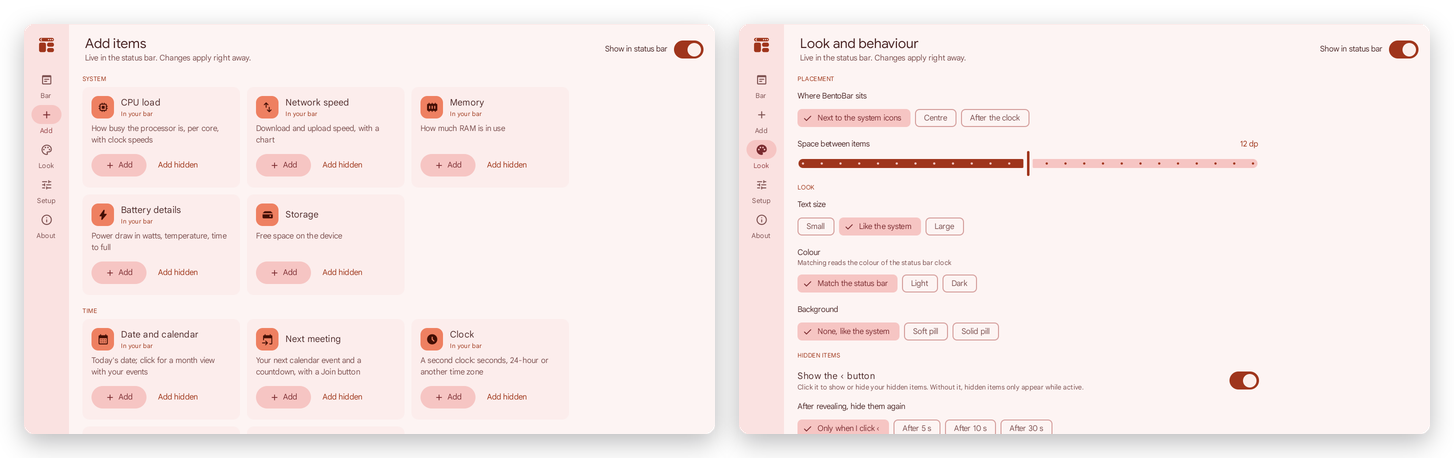
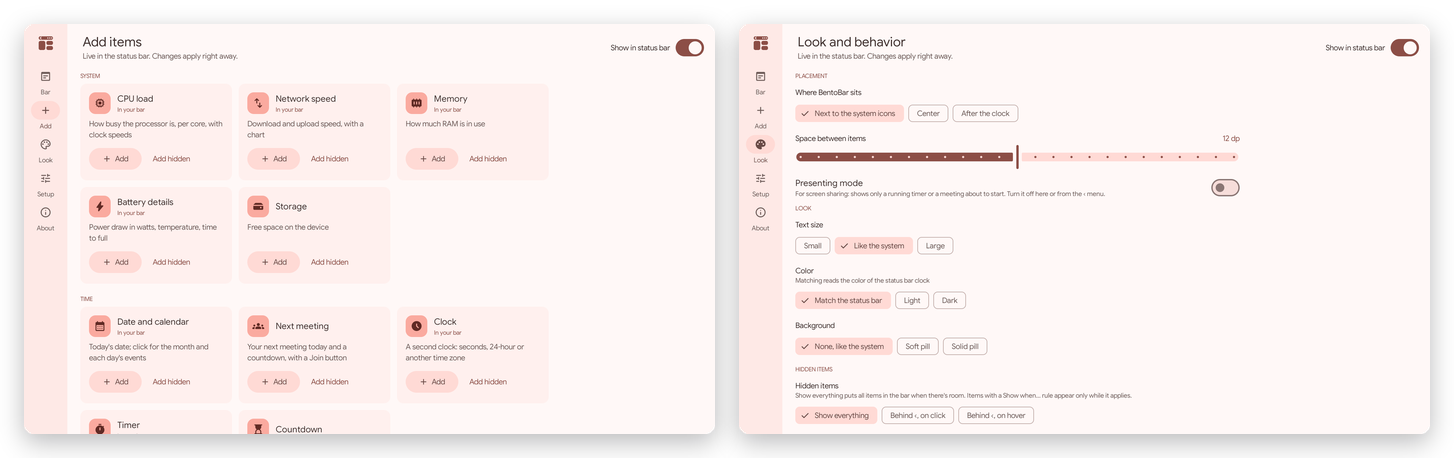
README screenshots of the current app; "Core 0" in the CPU menu; full-size window captures
- docs/images: all five screenshots retaken (on an Acer Googlebook 14, light theme, the default
  wallpaper, a demo layout). The old ones showed the 0.5 settings (up/down arrows, "Show itself
  when active", the "Show the ‹ button" switch, British spellings) and menus ("Remove from the
  bar", "Edit the bar…"). The README's intro, the bar caption and the Settings paragraph now say
  that hidden items are an option (the default shows everything that fits).
- tools/readme_images.py works from any Googlebook: captures are scaled to the HP's 1920 px
  screen, the bar height is measured, and an optional wallpaper.png goes under an opaque bar
  (the Acer's is black) in the hero image, saved with 256 colors.
- The CPU menu says "Core 0" for a core listed on its own (each one has its own clock on some
  Intel chips), not "Cores 0".
- winshot writes the PNG full size to the debug app's cache, pulled with run-as (`./bento winshot
  TITLE|app FILE`): a broadcast result over about 1 MB fails and the broadcast never finishes
  (Android then reports the app as not responding), and halving the image made captures blurry.

diff --git a/app/src/debug/java/io/github/kuscher/bentobar/util/DebugReceiver.kt b/app/src/debug/java/io/github/kuscher/bentobar/util/DebugReceiver.kt
@@ -124,21 +124,23 @@ class DebugReceiver : BroadcastReceiver() {
         svc.takeScreenshotOfWindow(w.id, java.util.concurrent.Executors.newSingleThreadExecutor(),
             object : android.accessibilityservice.AccessibilityService.TakeScreenshotCallback {
                 override fun onSuccess(r: android.accessibilityservice.AccessibilityService.ScreenshotResult) {
+                    // Full size into the app's cache, and its path as the result: a broadcast result
+                    // over about 1 MB fails (TransactionTooLarge) and the broadcast never finishes.
+                    // Pull it with `adb exec-out run-as <package> cat cache/winshot.png`.
                     val hb = r.hardwareBuffer
-                    var bmp = android.graphics.Bitmap.wrapHardwareBuffer(hb, r.colorSpace)!!.copy(android.graphics.Bitmap.Config.ARGB_8888, false)
-                    hb.close()
-                    // A broadcast result over about 1 MB fails (TransactionTooLarge), the broadcast
-                    // never finishes and Android reports BentoBar as not responding: halve big
-                    // windows (the settings window) until the PNG fits.
-                    var out = java.io.ByteArrayOutputStream()
-                    bmp.compress(android.graphics.Bitmap.CompressFormat.PNG, 100, out)
-                    while (out.size() > 600_000 && bmp.width > 200) {
-                        bmp = android.graphics.Bitmap.createScaledBitmap(bmp, bmp.width / 2, bmp.height / 2, true)
-                        out = java.io.ByteArrayOutputStream()
-                        bmp.compress(android.graphics.Bitmap.CompressFormat.PNG, 100, out)
+                    try {
+                        val bmp = android.graphics.Bitmap.wrapHardwareBuffer(hb, r.colorSpace)?.copy(android.graphics.Bitmap.Config.ARGB_8888, false)
+                        val file = java.io.File(svc.cacheDir, "winshot.png")
+                        pending.resultData = if (bmp == null) "failed: no bitmap" else {
+                            file.outputStream().use { bmp.compress(android.graphics.Bitmap.CompressFormat.PNG, 100, it) }
+                            "file:cache/winshot.png ${bmp.width}x${bmp.height}"
+                        }
+                    } catch (e: Exception) {
+                        pending.resultData = "failed: $e"
+                    } finally {
+                        hb.close()
+                        pending.finish()
                     }
-                    pending.resultData = android.util.Base64.encodeToString(out.toByteArray(), android.util.Base64.NO_WRAP)
-                    pending.finish()
                 }
                 override fun onFailure(code: Int) { pending.resultData = "failed $code"; pending.finish() }
             })

diff --git a/app/src/main/java/io/github/kuscher/bentobar/items/SystemItems.kt b/app/src/main/java/io/github/kuscher/bentobar/items/SystemItems.kt
@@ -102,7 +102,9 @@ object CpuItem : ItemType("cpu", R.string.item_cpu_title, Sym.MEMORY, R.string.i
                 CoreBars(c.perCore)
                 Spacer(Modifier.height(6.dp))
                 c.clusters.forEach { cl ->
-                    InfoRow(stringResource(R.string.cpu_cluster, cl.cores), stringResource(R.string.cpu_cluster_clock,
+                    // "Cores 0–3" for a group; a core with its own clock speed (each one, on some Intel
+                    // chips) is "Core 0".
+                    InfoRow(stringResource(if (cl.cores.all { it.isDigit() }) R.string.cpu_core_one else R.string.cpu_cluster, cl.cores), stringResource(R.string.cpu_cluster_clock,
                         String.format(Locale.ROOT, "%.2f", cl.curKhz / 1e6), String.format(Locale.ROOT, "%.2f", cl.maxKhz / 1e6)))
                 }
                 c.gpu?.let { g ->

diff --git a/tools/readme_images.py b/tools/readme_images.py
@@ -5,10 +5,12 @@
 Raw captures (in RAW, default ~/.cache/bentobar/shots), made with a demo layout so no personal data
 shows:
   bar_hero.png, bar_now.png, bar_open.png   full-width screenshots, top 41 px (./bento shot F 41)
-  win_*.png                                 BentoBar's own windows (./bento debug winshot ...), which
+  win_*.png                                 BentoBar's own windows (./bento winshot TITLE FILE), which
                                             carry their shadow margin and no mouse pointer
-  app_*.png                                 the settings window (./bento debug winshot app)
+  app_*.png                                 the settings window (./bento winshot app FILE)
   cpu_frame.txt                             "cpu menu frame: x1 y1 x2 y2" of the CPU menu window
+  wallpaper.png                             optional: the wallpaper at screen size, for the hero image
+                                            under an opaque status bar (else it's continued from the bar)
 
 Writes docs/images/hero.png, bar.png, menus.png, settings.png and settings-pages.png.
 
@@ -70,31 +72,55 @@ def wallpaper(bar, height):
     return bg.filter(ImageFilter.GaussianBlur(6))
 
 
+# Captures from any Googlebook are scaled to the HP's 1920 px wide screen (its density), so the
+# images keep one size whichever device they came from; SCALE is set from bar_hero.png in main().
+SCALE = 1.0
+
+
+def load(name):
+    im = Image.open(RAW / name).convert("RGBA")
+    if SCALE != 1.0:
+        im = im.resize((round(im.width * SCALE), round(im.height * SCALE)), Image.LANCZOS)
+    return im
+
+
 def main():
+    global SCALE
     OUT.mkdir(parents=True, exist_ok=True)
+    SCALE = 1920 / Image.open(RAW / "bar_hero.png").width
 
     # Hero: the right part of the status bar with the CPU menu open under its item.
-    x0 = 820
-    bar = Image.open(RAW / "bar_hero.png").convert("RGBA").crop((x0, 0, 1920, 41))
-    frame = [int(v) for v in (RAW / "cpu_frame.txt").read_text().split(":")[1].split()]
-    menu = Image.open(RAW / "win_cpu.png").convert("RGBA")
+    full = load("bar_hero.png")
+    bar_h = full.height
+    frame = [round(int(v) * SCALE) for v in (RAW / "cpu_frame.txt").read_text().split(":")[1].split()]
+    x0 = min(820, max(0, frame[0] - 80))
+    bar = full.crop((x0, 0, 1920, bar_h))
+    menu = load("win_cpu.png")
     h = frame[1] + menu.height + 36
-    hero = wallpaper(bar, h).convert("RGBA")
+    if (RAW / "wallpaper.png").exists():
+        # An opaque status bar (the Acer's is black) says nothing about the wallpaper under it: use
+        # the wallpaper itself (screen-sized, as the screen shows it) below the bar.
+        hero = load("wallpaper.png").crop((x0, 0, 1920, h))
+    else:
+        hero = wallpaper(bar, h).convert("RGBA")
     hero.alpha_composite(bar, (0, 0))
     hero.alpha_composite(menu, (frame[0] - x0, frame[1]))  # the window capture keeps its own shadow
-    rounded(hero, 20).save(OUT / "hero.png", optimize=True)
+    hero = rounded(hero, 20)
+    if (RAW / "wallpaper.png").exists():  # a photo compresses badly as PNG: 256 colours, dithered (~1.1 MB -> ~170 KB)
+        hero = hero.quantize(256, method=Image.Quantize.FASTOCTREE, dither=Image.Dither.FLOYDSTEINBERG)
+    hero.save(OUT / "hero.png", optimize=True)
 
     # The bar folded and with hidden items revealed.
     x0 = 560
-    rows = [Image.open(RAW / n).convert("RGBA").crop((x0, 0, 1920, 41)) for n in ("bar_now.png", "bar_open.png")]
+    rows = [load(n).crop((x0, 0, 1920, bar_h)) for n in ("bar_now.png", "bar_open.png")]
     gap = 10
-    both = Image.new("RGBA", (rows[0].width, 41 * 2 + gap), (0, 0, 0, 0))
+    both = Image.new("RGBA", (rows[0].width, bar_h * 2 + gap), (0, 0, 0, 0))
     both.alpha_composite(rounded(rows[0], 12), (0, 0))
-    both.alpha_composite(rounded(rows[1], 12), (0, 41 + gap))
+    both.alpha_composite(rounded(rows[1], 12), (0, bar_h + gap))
     both.save(OUT / "bar.png", optimize=True)
 
     # Menus side by side.
-    cards = [card(Image.open(RAW / f"win_{n}.png").convert("RGBA")) for n in ("network", "timer", "ctx", "tools", "bentobar")
+    cards = [card(load(f"win_{n}.png")) for n in ("network", "timer", "ctx", "tools", "bentobar")
              if (RAW / f"win_{n}.png").exists()]
     pad, gap = 30, 28
     W = sum(c.width for c in cards) + gap * (len(cards) - 1) + 2 * pad
@@ -109,9 +135,9 @@ def main():
 
     # Settings: the Bar page, and Add + Look side by side at half size.
     top = 44  # where the (separate) caption window sits
-    main_page = rounded(Image.open(RAW / "app_bar.png").convert("RGBA").crop((0, top, 1382, 864)), 18)
+    main_page = rounded(load("app_bar.png").crop((0, top, 1382, 864)), 18)
     shadowed(main_page, blur=20, alpha=80, pad=36).save(OUT / "settings.png", optimize=True)
-    pages = [rounded(Image.open(RAW / f"app_{n}.png").convert("RGBA").crop((0, top, 1382, 864)), 18) for n in ("add", "look")]
+    pages = [rounded(load(f"app_{n}.png").crop((0, top, 1382, 864)), 18) for n in ("add", "look")]
     half = [p.resize((p.width // 2, p.height // 2), Image.LANCZOS) for p in pages]
     combo = Image.new("RGBA", (half[0].width * 2 + 24 + 2 * 24, half[0].height + 2 * 24), (0, 0, 0, 0))
     combo.alpha_composite(shadowed(half[0], blur=12, alpha=70, pad=24), (0, 0))

diff --git a/README.md b/README.md
@@ -34,13 +34,13 @@ Formerly DiscoBar (<a href="#coming-from-discobar">moving over</a>).</sub></p>
 ## What it does
 
 BentoBar puts **your own items** into the empty part of the status bar, right next to the
-system's icons, in the same font and colour. Items you don't need all the time go **behind the ‹
-button**; one click reveals them, another folds them away. Like a bento box: everything in its
-compartment, and the whole thing neat.
+system's icons, in the same font and colour. Items you don't need all the time can show only while
+they have something to say, or wait **behind the ‹ button**: one click reveals them, another folds
+them away. Like a bento box: everything in its compartment, and the whole thing neat.
 
 <p align="center">
   <img src="docs/images/bar.png" width="880" alt="The status bar with BentoBar folded, then with its hidden items revealed">
-  <br><sub>Folded (top) and revealed (bottom): a world clock, battery and memory slide in next to the running timer.</sub>
+  <br><sub>With hidden items behind ‹ (a Look setting; the default shows everything that fits), folded (top) and revealed (bottom): a world clock, battery and memory slide in next to the running timer.</sub>
 </p>
 
 - **Show when active:** a hidden item can pop out on its own while it has something to say, such
@@ -79,13 +79,13 @@ hides when an app goes full screen or the screen locks.
 | **Text or emoji**, **Spacer** | anything you like | optional link |
 
 <p align="center">
-  <img src="docs/images/menus.png" width="880" alt="BentoBar menus: network, timer, the right-click item menu, tools, and the list of hidden items">
+  <img src="docs/images/menus.png" width="880" alt="BentoBar menus: network, timer, the right-click item menu, tools, and BentoBar's ‹ menu with the hidden items">
 </p>
 
 ## Settings
 
 A live preview of your bar at the top; below it, your items in three groups (**in the bar**,
-**hidden behind ‹** and **off**) with each item's options on the right. Changes apply to the
+**hidden** and **off**; drag a row to move it) with each item's options on the right. Changes apply to the
 status bar right away.
 
 <p align="center">
@@ -93,7 +93,7 @@ status bar right away.
 </p>
 
 <p align="center">
-  <img src="docs/images/settings-pages.png" width="880" alt="Adding items, and the look and behaviour options">
+  <img src="docs/images/settings-pages.png" width="880" alt="Adding items, and the look and behavior options">
   <br><sub>Adding items, and choosing where BentoBar sits and how it looks.</sub>
 </p>
 

diff --git a/CLAUDE.md b/CLAUDE.md
@@ -46,8 +46,9 @@ plain APK: no adb grants, root or system changes in the product (the user's hard
 - `tools/readme_images.py`: composes docs/images/*.png (README) from raw captures in
   ~/.cache/bentobar/shots (see its docstring). Capture with a **demo layout** (`./bento debug cfg` to
   save the user's, `./bento debug import <base64>` to load the demo and later restore theirs) so no
-  calendar titles or other personal data show, and with `./bento debug winshot [title|app]`, which
-  returns a PNG of BentoBar's own window (no pointer, no other apps) base64 in the broadcast result.
+  calendar titles or other personal data show, and with `./bento winshot TITLE|app FILE`, which
+  saves a PNG of one of BentoBar's own windows (no pointer, no other apps; written to the debug
+  app's cache and pulled with run-as, since a broadcast result can't carry a big image).
 - `docs/research/`: the device findings (probe results) and the official-docs research, with URLs.
 - `probe/`: the throwaway feasibility probe (Gradle-free build). Not part of the app.
 

diff --git a/CHANGELOG.md b/CHANGELOG.md
@@ -2,6 +2,8 @@
 
 ## Unreleased
 
+- The CPU menu says "Core 0" for a core listed on its own (each one, on some Intel chips), not
+  "Cores 0". The README's screenshots show the current app.
 - **Fewer things that look like abuse.** Play Protect's live threat detection warned "App displays
   over other apps" about BentoBar. Its rules aren't public; these changes remove what matches
   Google's own description (an accessibility service keeping imperceptible content on screen) and
